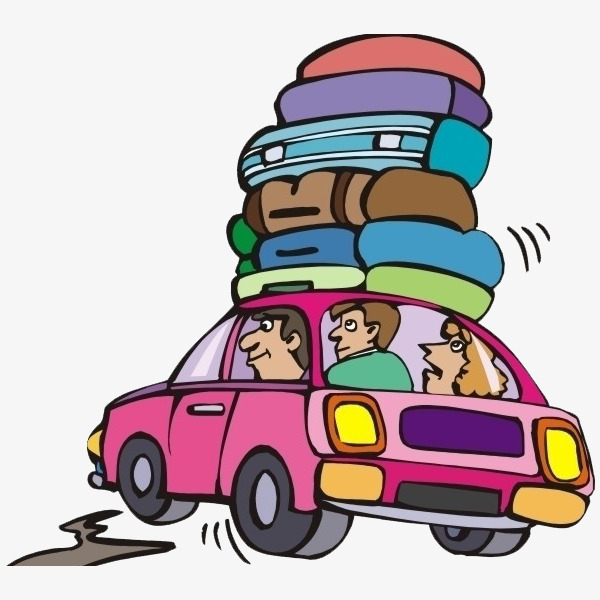
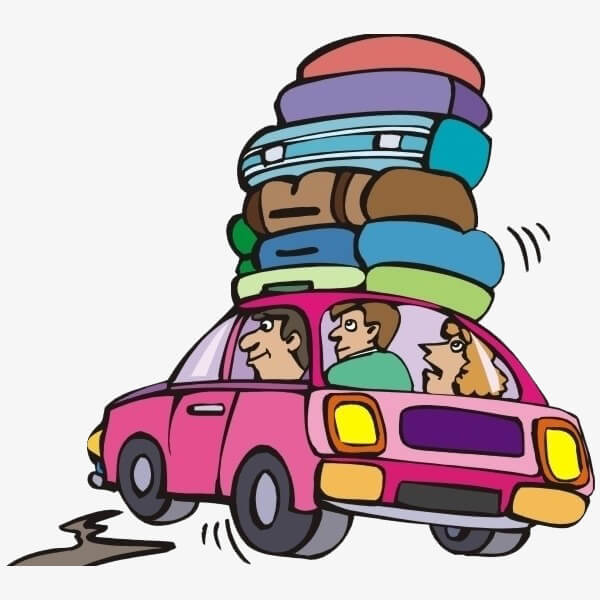
replace some imgs

Changed region(s): [[0.39, 0.9, 0.42, 0.93], [0.39, 0.24, 0.42, 0.27]]

diff --git a/_posts/2017-02-19-搬家啦.md b/_posts/2017-02-19-搬家啦.md
@@ -3,12 +3,12 @@ author: qixin
 date: 2017-02-19
 layout: post
 title: 搬家啦
-img: 2017/02/move.jpg
+img: http://pblq6h54x.bkt.clouddn.com/post/img/move.jpg
 tags: [搬家, 新家]
 ---
 
 　　今天搬家了，从大兴到通州，我在北京租住的第三个地方。在大兴住了一年零三个月，从实习跨越到正式入职，算是完成了从学校集体住宿到在外租住的完美过渡。在大兴，几个熟悉的人住在一起，一切都是那么随心所欲，一切都显得放松。但是现在，面临着陌生的合租伙伴，面临着不同的生活喜好和习惯，面临着摩擦与磨合。这大概是每一个漂泊在外的人都会面临的吧，陌生的城市陌生的人。
 
-![大兴](/assets/img/2017/02/daxing-min.jpeg "大兴")
+![大兴](http://pblq6h54x.bkt.clouddn.com/post/img/daxing-min.jpeg "大兴")
 
-![通州](/assets/img/2017/02/tongzhou-min.jpeg "通州")
+![通州](http://pblq6h54x.bkt.clouddn.com/post/img/tongzhou-min.jpeg "通州")

diff --git a/_posts/2017-05-08-关于家具的一点思考.md b/_posts/2017-05-08-关于家具的一点思考.md
@@ -3,8 +3,8 @@ author: qixin
 date: 2017-05-08
 layout: post
 title: 关于家具家居的一点思考
-img: 2017/05/think.png
+img: http://pblq6h54x.bkt.clouddn.com/post/img/think.png
 tags: [思维导图, 家具]
 ---
 
-![家具家居的一点思考（思维导图）](/assets/img/2017/05/furniture.png "家具家居的一点思考（思维导图）")
+![家具家居的一点思考（思维导图）](http://pblq6h54x.bkt.clouddn.com/post/img/furniture.png "家具家居的一点思考（思维导图）")

diff --git a/_posts/2017-03-04-骑行怀柔雁栖湖.md b/_posts/2017-03-04-骑行怀柔雁栖湖.md
@@ -3,10 +3,10 @@ author: qixin
 date: 2017-03-04
 layout: post
 title: 骑行怀柔雁栖湖
-img: 2017/03/ride.jpeg
+img: http://pblq6h54x.bkt.clouddn.com/post/img/bike.jpg
 tags: [骑行, 雁栖湖]
 ---
 
-![雁栖湖](/assets/img/2017/03/yanqihu011.jpg "雁栖湖")
+![雁栖湖](http://pblq6h54x.bkt.clouddn.com/post/img/yanqihu011.jpg "雁栖湖")
 
-![雁栖湖](/assets/img/2017/03/yanqihu021.jpg "雁栖湖")
+![雁栖湖](http://pblq6h54x.bkt.clouddn.com/post/img/yanqihu021.jpg "雁栖湖")

diff --git a/_posts/2017-02-08-起死回生的博客.md b/_posts/2017-02-08-起死回生的博客.md
@@ -3,7 +3,7 @@ author: qixin
 date: 2017-02-08
 layout: post
 title: 起死回生的博客
-img: 2017/02/blog.jpg
+img: http://pblq6h54x.bkt.clouddn.com/post/img/blog.jpg
 ---
 
 有人说写博客的人会经历三个阶段：第一个是找个免费空间来写，第二个是自己搭个博客来写，第三个是托管给第三方，自己专心写博客。

diff --git a/_posts/2017-02-09-创业公司的这一年半.md b/_posts/2017-02-09-创业公司的这一年半.md
@@ -3,7 +3,7 @@ author: qixin
 date: 2017-02-09
 layout: post
 title: 创业公司的这一年半
-img: 2017/02/startup.jpg
+img: http://pblq6h54x.bkt.clouddn.com/post/img/startup.jpg
 ---
 
 转眼已经工作一年半了，全职实习一年，毕业入职半年。

diff --git a/_posts/2017-02-14-webpack2初探.md b/_posts/2017-02-14-webpack2初探.md
@@ -3,7 +3,7 @@ author: qixin
 date: 2017-02-14
 layout: post
 title: webpack2初探
-img: 2017/02/webpack.png
+img: http://pblq6h54x.bkt.clouddn.com/post/img/webpack.png
 tags: [webpack]
 ---
 
